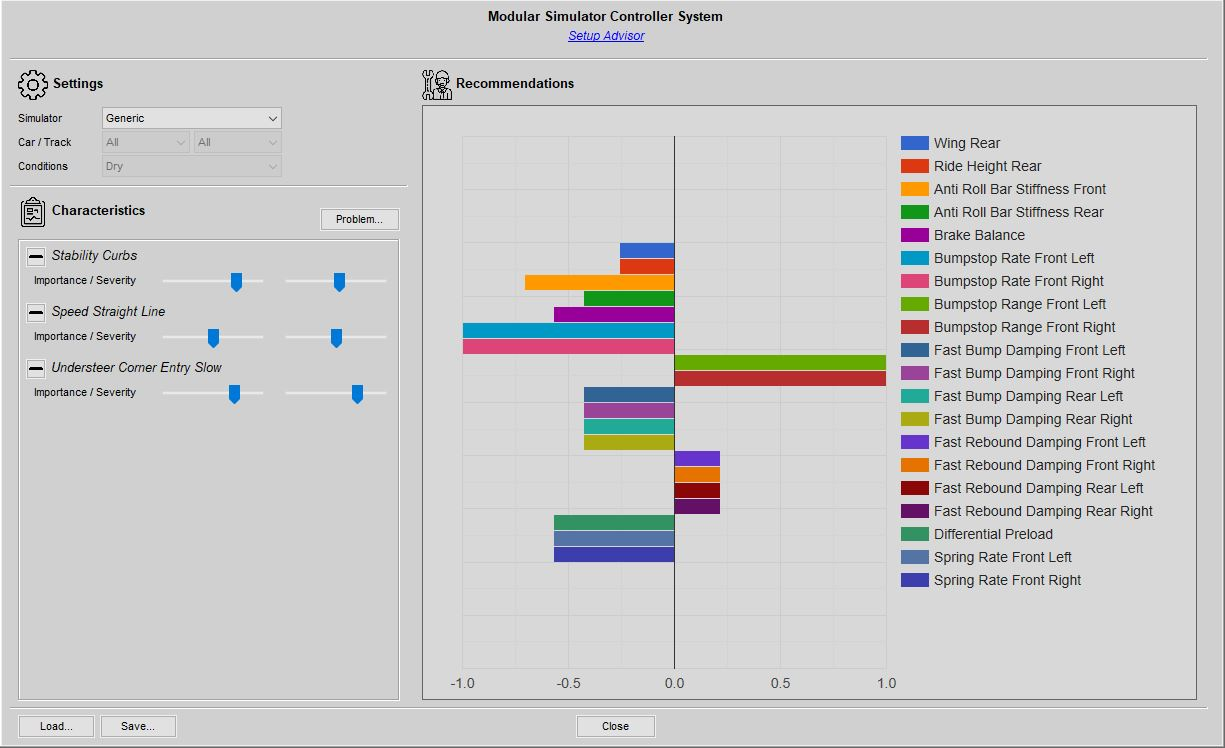
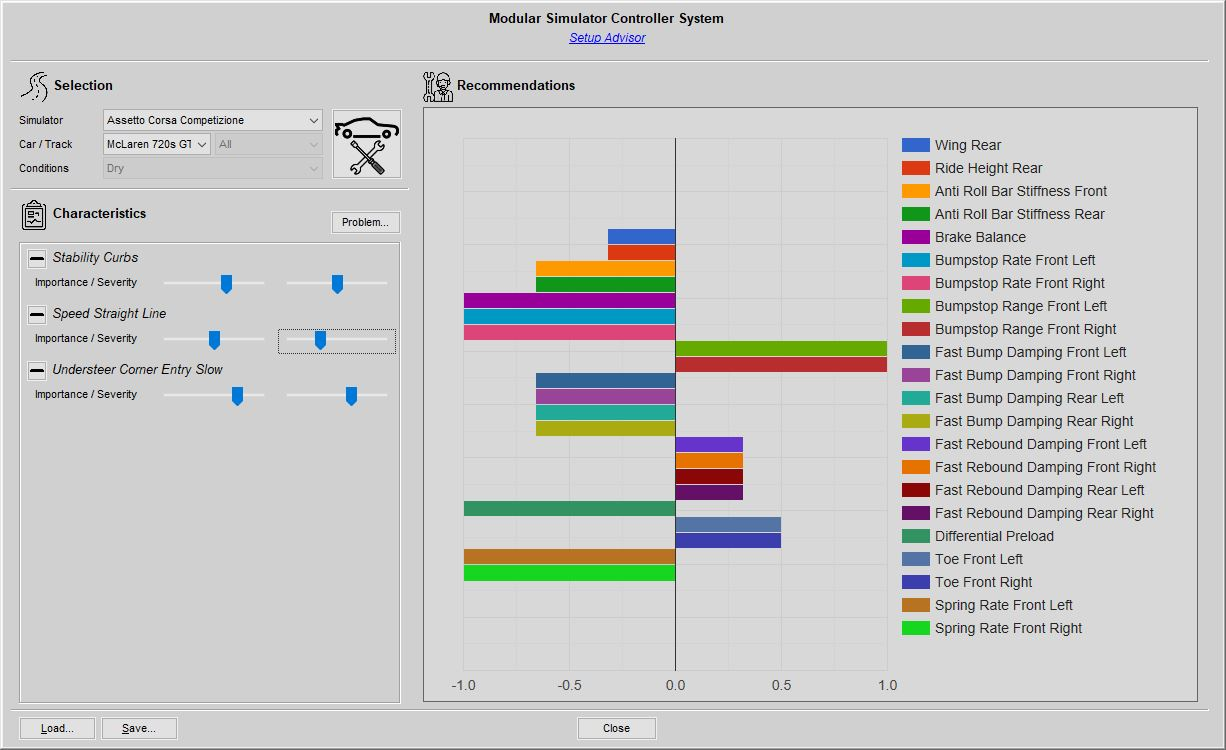
Documentation Update

diff --git a/Docs/Setup Advisor.md b/Docs/Setup Advisor.md
@@ -74,3 +74,101 @@ During the first phase, the rule engine analyses all given problems and their "I
 			(Prove: changeSetting(Bumpstop.Rate, [Rear.Left, Rear.Right], 0.5, ?Understeer.Corner.Exit.Fast.Correction))
 
 As you can see, these rules define the changes to be applied to the setup settings to compensate for a specific problem, fast corner exit understeer in this example. It is self-explanatory, that a lot of settings might be influenced by many applicable rules at the same time. The generic rule set of "Setup Advisor" will handle this by computing the resulting setting as the best possible compromise for all resulting changes.
+
+## Managing Car Setups
+
+After you have described your problems and reviewed the recommendations of "Setup Advisor", you may either change the settings directly in your simulator, or you can load the respective setup file for the given car and let "Setup Advisor" handle the modifications. To do this, click on the button with the little car on the right side of the *Selection* area. This will open a second window which allows you to work with setup files. If you do this for the first time, you first have to find and load the respective setup file, which will be used as the base setup for all modifications. Once you have loaded this file, the following window opens:
+
+![](https://github.com/SeriousOldMan/Simulator-Controller/blob/Development/Docs/Images/Setup%20Editor%201.JPG)
+
+On the right side, you will see the simulator specific content of the setup file, in this case a setup for *Assetto Corsa Competizione* in a JSON format. In the list on the right, all settings known to "Setup Advisor", which are valid for the currently selected simulator and car will be listed together with their values from the currently loaded setup file. You can select a setting in this list and change its value using the "Increase" or "Decrease" button. Much more interesting is the "Apply" button below. When you click this button, all recommendations of the "Setup Advisor" will be applied as balanced changes to the currently loaded setup. You will the see a list like this:
+
+![](https://github.com/SeriousOldMan/Simulator-Controller/blob/Development/Docs/Images/Setup%20Editor%202.JPG)
+
+The changes will also be reflected in the internal format at the right, but this is more for documentary purposes. Once you have reviewed and possibly corrected some of the modifications, you can press the "Save..." button to save everything to a new setup file. Or you can use the "Reset" button to start over again.
+
+Note: The Setup Editor is currently only available for *Assetto Corsa Competizione*. More simulators will be supported with future releases.
+
+## Extending and cutomizing the "Setup Advisor"
+
+As you might have noticed, the "Setup Advisor" implements a quite generic, but also to a large extent general approach to car handling problems. But it is also possible to introduce simulator specific or even car specific rules for the AI processing and you can also describe the car specific settings, their ranges and rules for reading and modifying setup files. All builtin definitions and rules can be found in the *Resources\Advisor\Definitions* and in the *Resources\Advisor\Rules* folder in the program directory. But you can introduce their own versions of these files or even new ones in the *Simulator Controller\Advisor* folder in your user *Documents* folder. You can use the definition and rule files which are located in the programm directory as a template when creating your own files.
+
+Although it is possible to introduce support for a completely new simulator, much more common is the addition of a new car. Every simulator will support a so called generic car, with all setup settings supported by this simulator. Also, the Setup Editor will handle this generic car, but almost all settings will be handled a simple "clicks" without restricting the changes to a known range. This information is provided by the so called car definition files and the car specific rules.
+
+### Introducing new car specifications
+
+Each simulator comes with a set of default settings which will be available for all cars. A specific car might restrict or change this set by using a car specific rule file. Let's start with a simple example:
+
+	[?Initialize] => (Prove: removeSetting(Assetto\ Corsa\ Competizione, McLaren\ 720s\ GT3, Aero.Splitter.Front))
+
+This rule removes the front splitter setting from the set of available settings in *Assetto Corsa Competizione* for the "McLaren 720s GT3" upon initialization of the rule set, since this car does not have an adjustable front splitter.
+
+Car specific rules are either located in the *Resources\Advisor\Rules\Cars* folder in the program directory or in the *Simulator Controller\Advisor\Rules\Cars* folder which is located in your user *Documents* folder. These files must implement the following naming scheme:
+
+	[Simulator].[Car].rules
+
+with [Simulator] and [Car] substituted by the specific names.
+
+These rules are loaded and activated, when you select a specific car in "Setup Advisor". In most cases, the car specific rules will alter the set of available car settings, but it is also possible to modify, add or remove rules for the problem analysis as described above.
+
+Here is a more complex example for the "Porsche 992 GT3 Cup" which follows a very minimalistic approach, when it comes to car setup possibilities.
+
+	????
+
+Beside the rules, which influence the way, the "Setup Advisor" analyses your handling problems, a so called definition file describe the car settings, their units and value ranges in more detail for the Setup Editor. These files are located in the *Resources\Advisor\Definitions\Cars* folder in the program directory or in the *Simulator Controller\Advisor\Definitions\Cars* folder which is located in your user *Documents* folder. These files must implement the following naming scheme:
+
+	[Simulator].[Car].ini
+
+with [Simulator] and [Car] substituted by the specific names.
+
+Here is an extract from the definition file for the "McLaren 720s GT3":
+
+	[Setup.Settings.Handler]
+	Brake.Balance=FloatHandler(47.0, 0.2, 1, 47.0, 68.0)
+	Brake.Duct.Front=ClicksHandler(0, 6)
+	Brake.Duct.Rear=ClicksHandler(0, 6)
+	Aero.Height.Front=IntegerHandler(50, 1, 50, 80)
+	Aero.Height.Rear=IntegerHandler(64, 1, 64, 105)
+	Aero.Wing.Rear=IntegerHandler(1, 1, 1, 8)
+	Geometry.Toe.Front.Left=FloatHandler(-0.48, 0.01, 2, -0.48, 0.44)
+	Geometry.Toe.Front.Right=FloatHandler(-0.48, 0.01, 2, -0.48, 0.44)
+	Geometry.Toe.Rear.Left=FloatHandler(-0.1, 0.01, 2, -0.1, 0.4)
+	Geometry.Toe.Rear.Right=FloatHandler(-0.1, 0.01, 2, -0.1, 0.4)
+	...
+	[Setup.Settings.Units.DE]
+	Brake.Balance=% Vorne
+	Aero.Height.Front=mm
+	Aero.Height.Rear=mm
+	Geometry.Toe.Front.Left=Grad
+	Geometry.Toe.Front.Right=Grad
+	Geometry.Toe.Rear.Left=Grad
+	Geometry.Toe.Rear.Right=Grad
+	...
+	[Setup.Settings.Units.EN]
+	Brake.Balance=% Front
+	Aero.Height.Front=mm
+	Aero.Height.Rear=mm
+	Geometry.Toe.Front.Left=Degrees
+	Geometry.Toe.Front.Right=Degrees
+	Geometry.Toe.Rear.Left=Degrees
+	Geometry.Toe.Rear.Right=Degrees
+	...
+
+The most important part is the "[Setup.Settings.Handler]" section. Here you specify a special handler for each setting, which manages this specific setting. If you don't supply a handler for an active setting of the given car, a default *ClicksHandler* with an unrestricted range will be active. You can also supply *false* as a handler, which means that this setting will be unavailable. The following handlers can be used:
+
+  - ClicksHandler(minValue, maxValue)
+  
+    Available values for this setting range from *minValue* to *maxValue* and are incremented by **1**. *minValue* and *maxValue* must be both integers.
+
+  - IntegerHandler(baseValue, increment, minValue, maxValue)
+  
+    This handler implements a more complex range of natural numbers. All supplied values must be integers. The valid range of setting values goes from minValue to maxValue with each step defined be *increment*. *baseValue* will be used as the anchor, which corresponds to **0** in the underlying simulator specific setup file.
+
+  - FloatHandler(baseValue, increment, precision, minValue, maxValue)
+  
+    Similar in behaviour to the *IntegerHandler* but uses floating point numbers. *precision* defines, how many places after the decimal point are considered and displayed.
+
+The sections "[Setup.Settings.Units.DE]" and "[Setup.Settings.Units.EN]" and so on allow you to supply language specific unit labels for all the settings. If an entry is missing for a given setting, the label will be "Clicks" (or a possible translation).
+
+#### Assetto Corsa Competizione
+

diff --git a/Docs/Releases.md b/Docs/Releases.md
@@ -1,3 +1,14 @@
+## 4.1.0-release 04/29/22
+
+  1. Bugfixes, as always
+  2. Documentation updates, as always
+  3. Support "No Tyre Change" for post-preparing pitstop option changes.
+  4. Support for multiple hotkeys in "Simulator Setup".
+  5. Stability improvements in "Race Center".
+  6. New Stream Deck icons for Chat messages.
+  7. Support editing of validation rules directly from "Strategy Workbench". See the revised [documentation](https://github.com/SeriousOldMan/Simulator-Controller/wiki/Virtual-Race-Strategist#integrating-into-strategy-workbench) for more information.
+  8. "Setup Advisor" is now able to [load, modify and save setup files](*) from Assetto Corsa Competizione.
+
 ## 4.0.9-release 04/22/22
 
   1. Prevent installation to non-empty directories.
